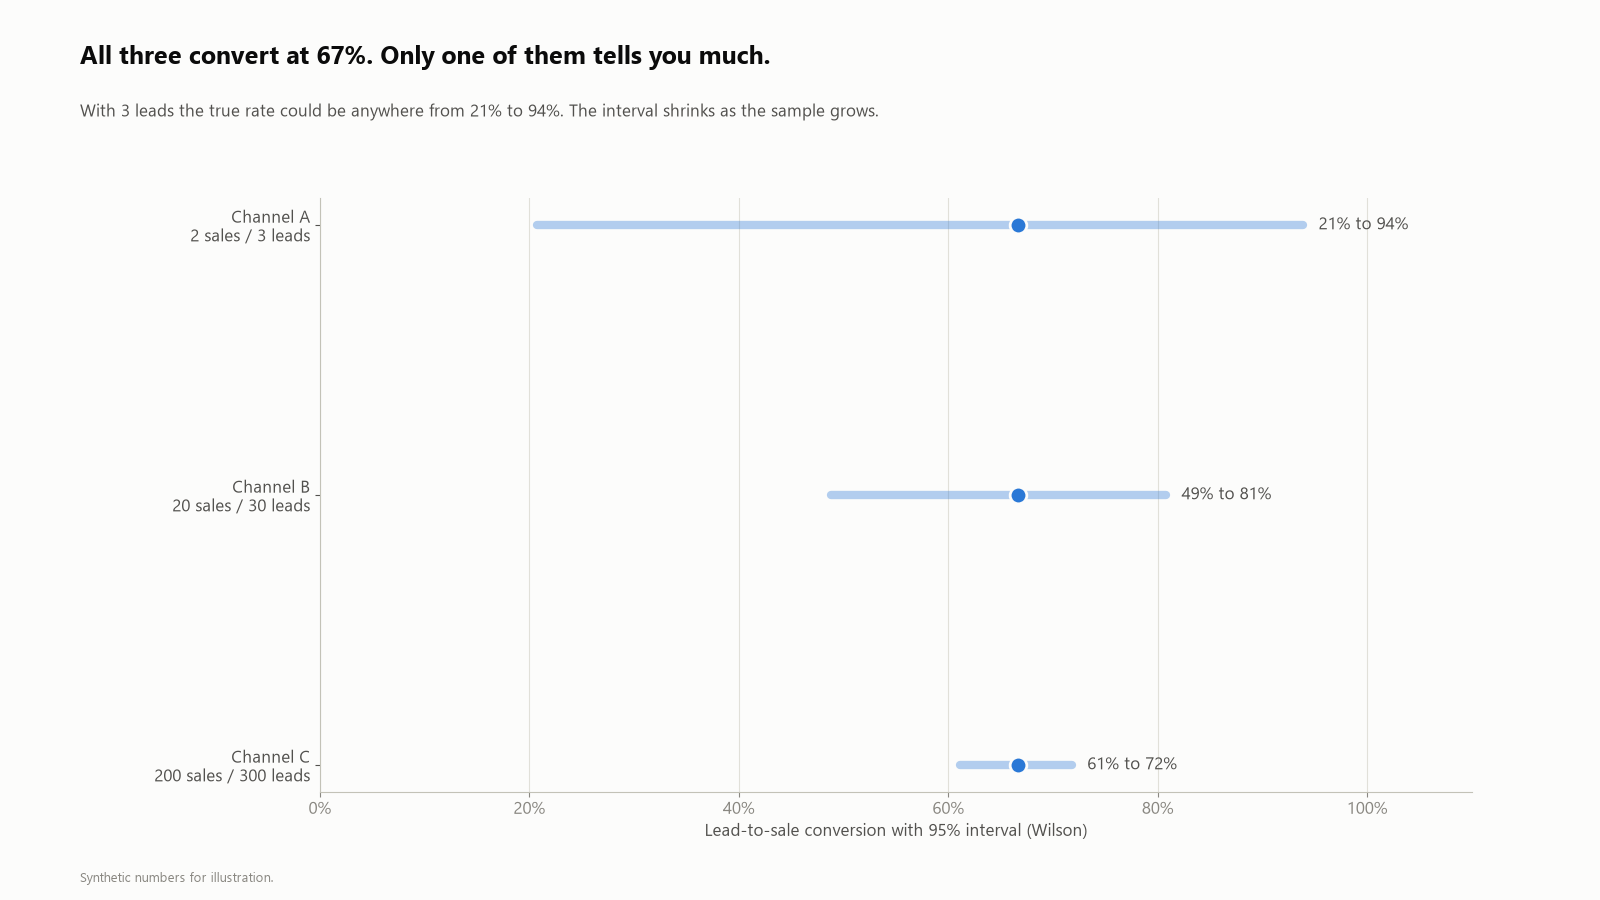
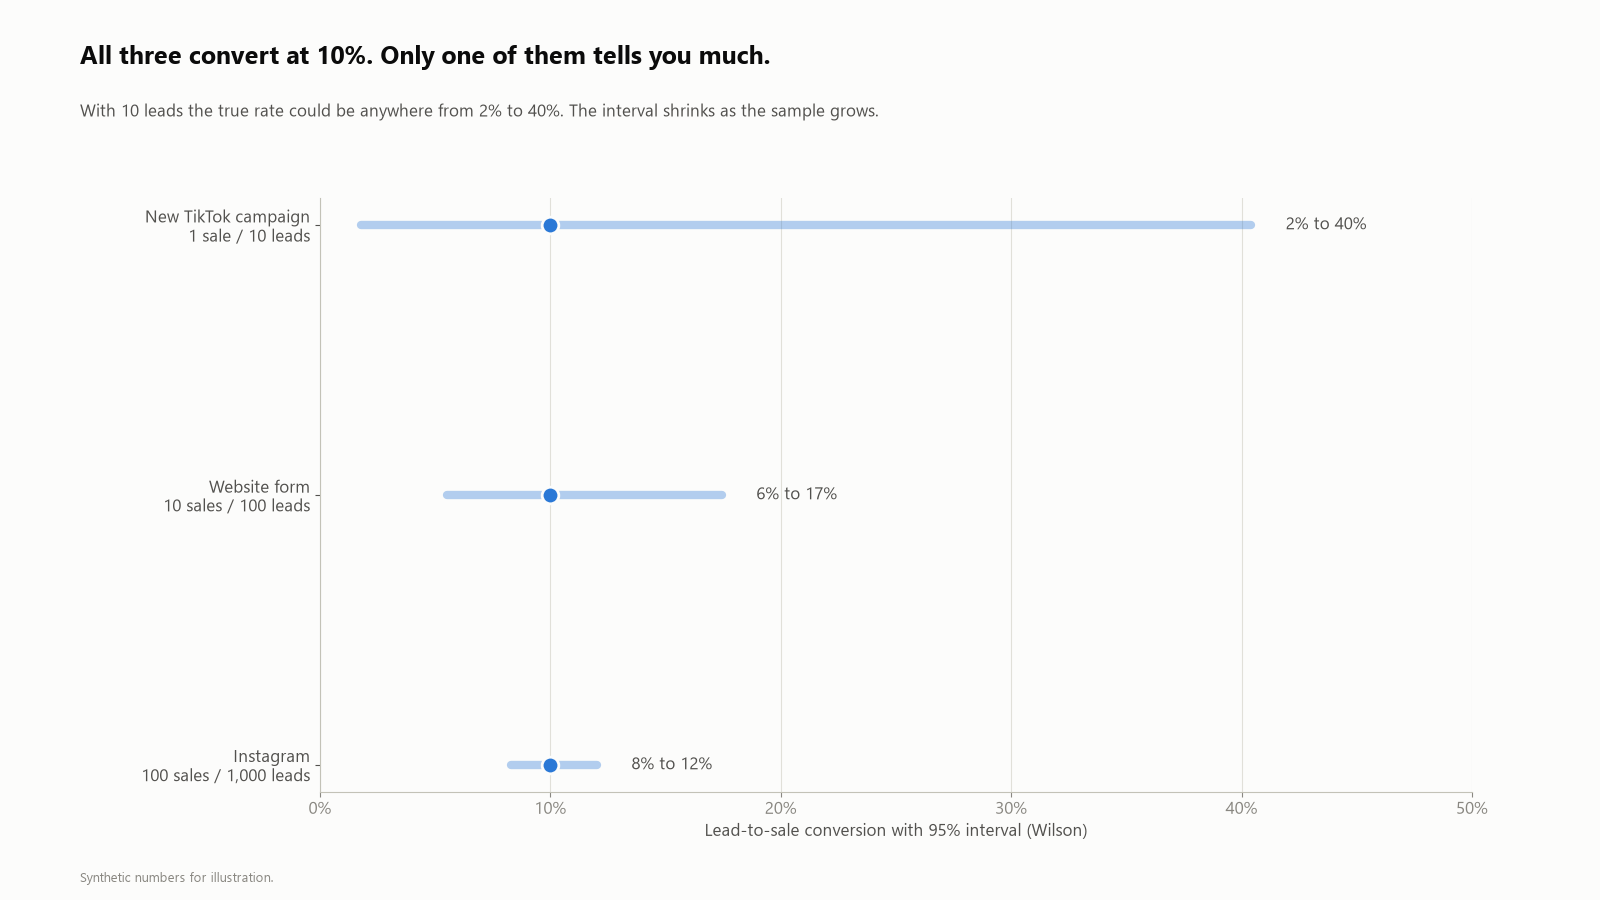
Use real model and channel names with synthetic numbers

diff --git a/src/pitfalls.py b/src/pitfalls.py
@@ -65,8 +65,8 @@ def percent_vs_points() -> None:
 
 
 def small_samples() -> None:
-    cases = [("Channel A\n2 sales / 3 leads", 2, 3), ("Channel B\n20 sales / 30 leads", 20, 30),
-             ("Channel C\n200 sales / 300 leads", 200, 300)]
+    cases = [("New TikTok campaign\n1 sale / 10 leads", 1, 10), ("Website form\n10 sales / 100 leads", 10, 100),
+             ("Instagram\n100 sales / 1,000 leads", 100, 1000)]
     fig, ax = plt.subplots(figsize=(16, 9))
     fig.subplots_adjust(left=0.20, right=0.92, top=0.78, bottom=0.12)
     for i, (label, s, n) in enumerate(cases[::-1]):
@@ -75,19 +75,22 @@ def small_samples() -> None:
         ax.plot(100 * s / n, i, "o", color=BLUE, ms=12, mec=SURFACE, mew=2)
         ax.text(100 * hi + 1.5, i, f"{100 * lo:.0f}% to {100 * hi:.0f}%", va="center", fontsize=12, color=INK_2)
     ax.set_yticks(range(3), [c[0] for c in cases[::-1]], fontsize=12)
-    ax.set_xlim(0, 110)
-    ax.set_xticks(range(0, 101, 20), [f"{t}%" for t in range(0, 101, 20)])
+    ax.set_xlim(0, 50)
+    ax.set_xticks(range(0, 51, 10), [f"{t}%" for t in range(0, 51, 10)])
     ax.grid(axis="x", color=GRID)
     ax.set_axisbelow(True)
     ax.set_xlabel("Lead-to-sale conversion with 95% interval (Wilson)")
-    headline(fig, "All three convert at 67%. Only one of them tells you much.",
-             "With 3 leads the true rate could be anywhere from 21% to 94%. The interval shrinks as the sample grows.")
+    label, s, n = cases[0]
+    lo, hi = wilson(s, n)
+    headline(fig, f"All three convert at {100 * s / n:.0f}%. Only one of them tells you much.",
+             f"With {n} leads the true rate could be anywhere from {100 * lo:.0f}% to {100 * hi:.0f}%. "
+             "The interval shrinks as the sample grows.")
     save(fig, "02_small_samples.png")
 
 
 def simpson() -> None:
     # (leads, sales) per brand, per period
-    data = {"Brand X": [(1000, 50), (2000, 120)], "Brand Y": [(200, 30), (100, 16)]}
+    data = {"Instagram": [(1000, 50), (2000, 120)], "Call center": [(200, 30), (100, 16)]}
     total = [tuple(sum(v) for v in zip(*(d[p] for d in data.values()))) for p in (0, 1)]
     groups = {**data, "Total": total}
     fig, axes = plt.subplots(1, 3, figsize=(16, 9), sharey=True)
@@ -105,8 +108,8 @@ def simpson() -> None:
         ax.spines["left"].set_visible(False)
         ax.set_ylim(-2.2, 19)
         ax.tick_params(axis="x", labelsize=13)
-    headline(fig, "Each brand converts better. The total converts worse.",
-             "Simpson's paradox: the mix moved toward Brand X, which has a lower rate. Always check the segments.")
+    headline(fig, "Each channel converts better. The total converts worse.",
+             "Simpson's paradox: the mix moved toward Instagram, which has a lower rate. Always check the segments.")
     save(fig, "03_simpson.png")
 
 

diff --git a/README.md b/README.md
@@ -16,12 +16,12 @@ From 2% to 3% is **+1 percentage point** and **+50%**. Say which one you mean. I
 ### 2. Small samples
 ![Small samples](images/02_small_samples.png)
 
-2 out of 3 and 200 out of 300 are both 67%. The 95% Wilson interval shows how little 3 leads tell you: anything from 21% to 94%. Before ranking channels, I check how many leads sit behind each rate.
+1 out of 10, 10 out of 100 and 100 out of 1,000 are all 10%. The 95% Wilson interval shows how little 10 leads tell you: anything from 2% to 40%. Before ranking channels, I check how many leads sit behind each rate.
 
 ### 3. Simpson's paradox
 ![Simpson's paradox](images/03_simpson.png)
 
-Both brands improve, the total gets worse, because the mix moved toward the brand with the lower rate. A total is a weighted average. When it moves, I check the segments and the weights before the rates.
+Instagram and the call center both improve, the total gets worse, because the mix moved toward Instagram, the channel with the lower rate. A total is a weighted average. When it moves, I check the segments and the weights before the rates.
 
 ### 4. Mean vs median
 ![Mean vs median](images/04_mean_vs_median.png)
